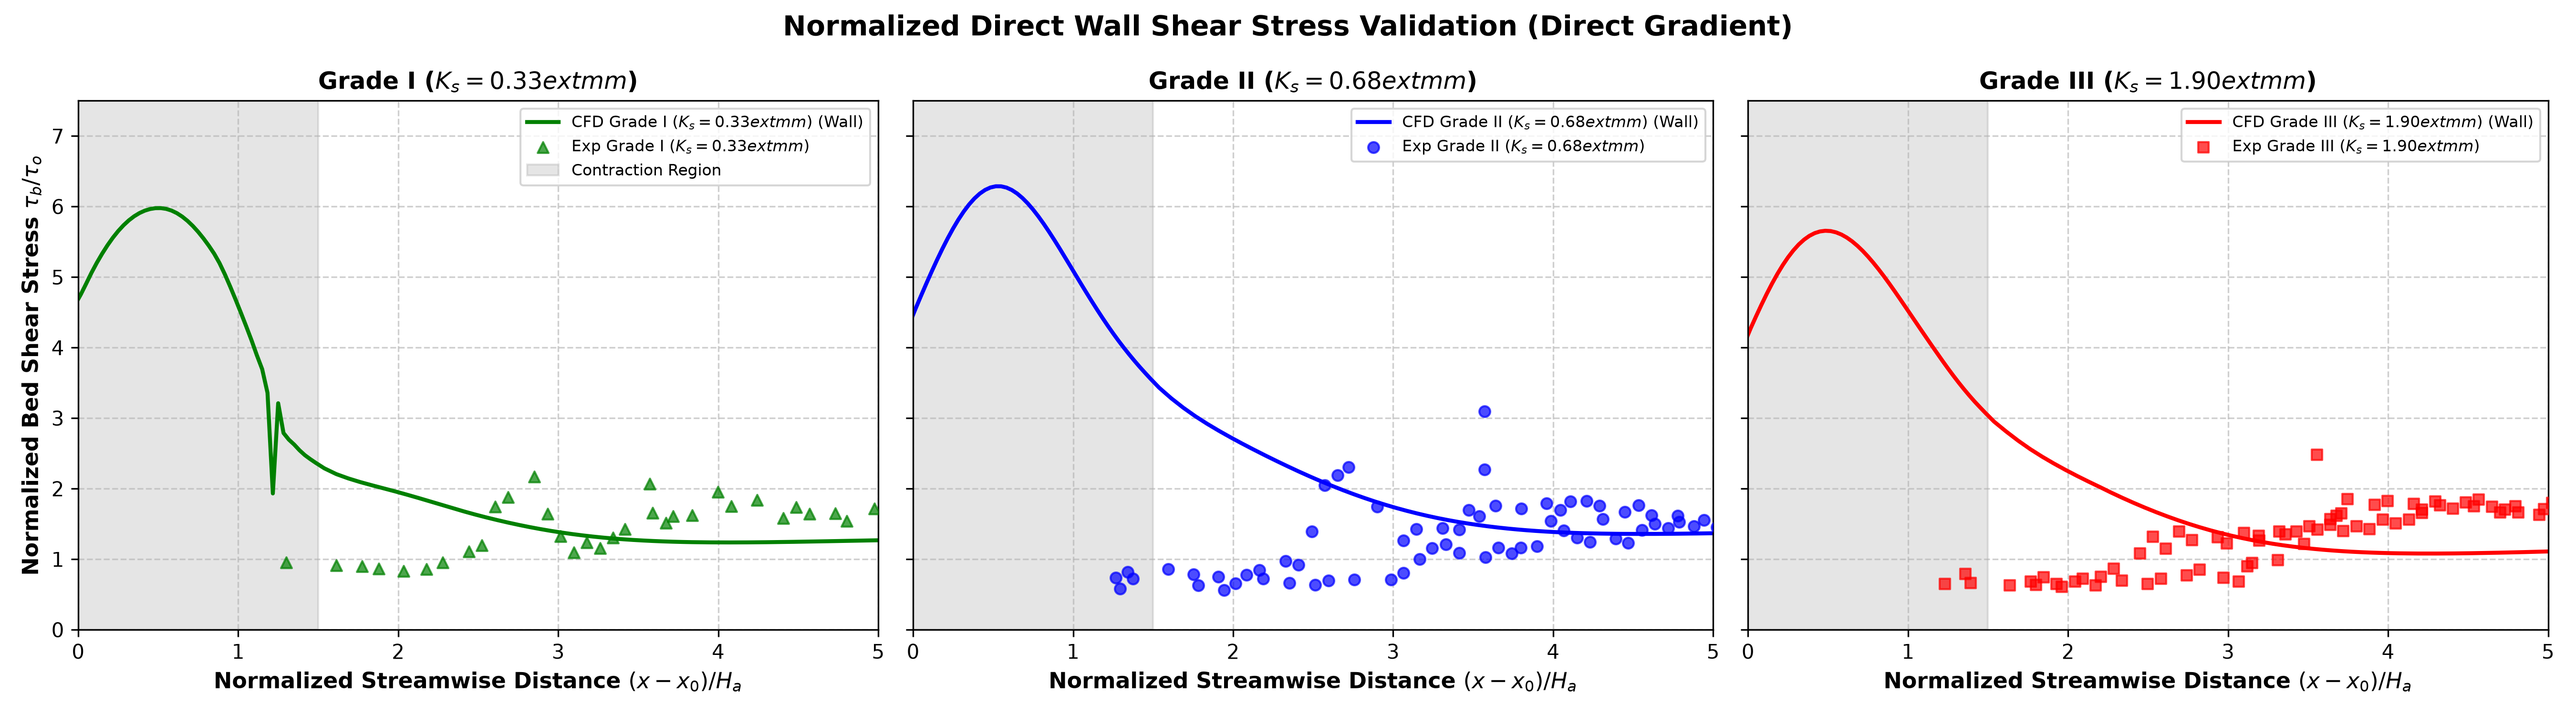
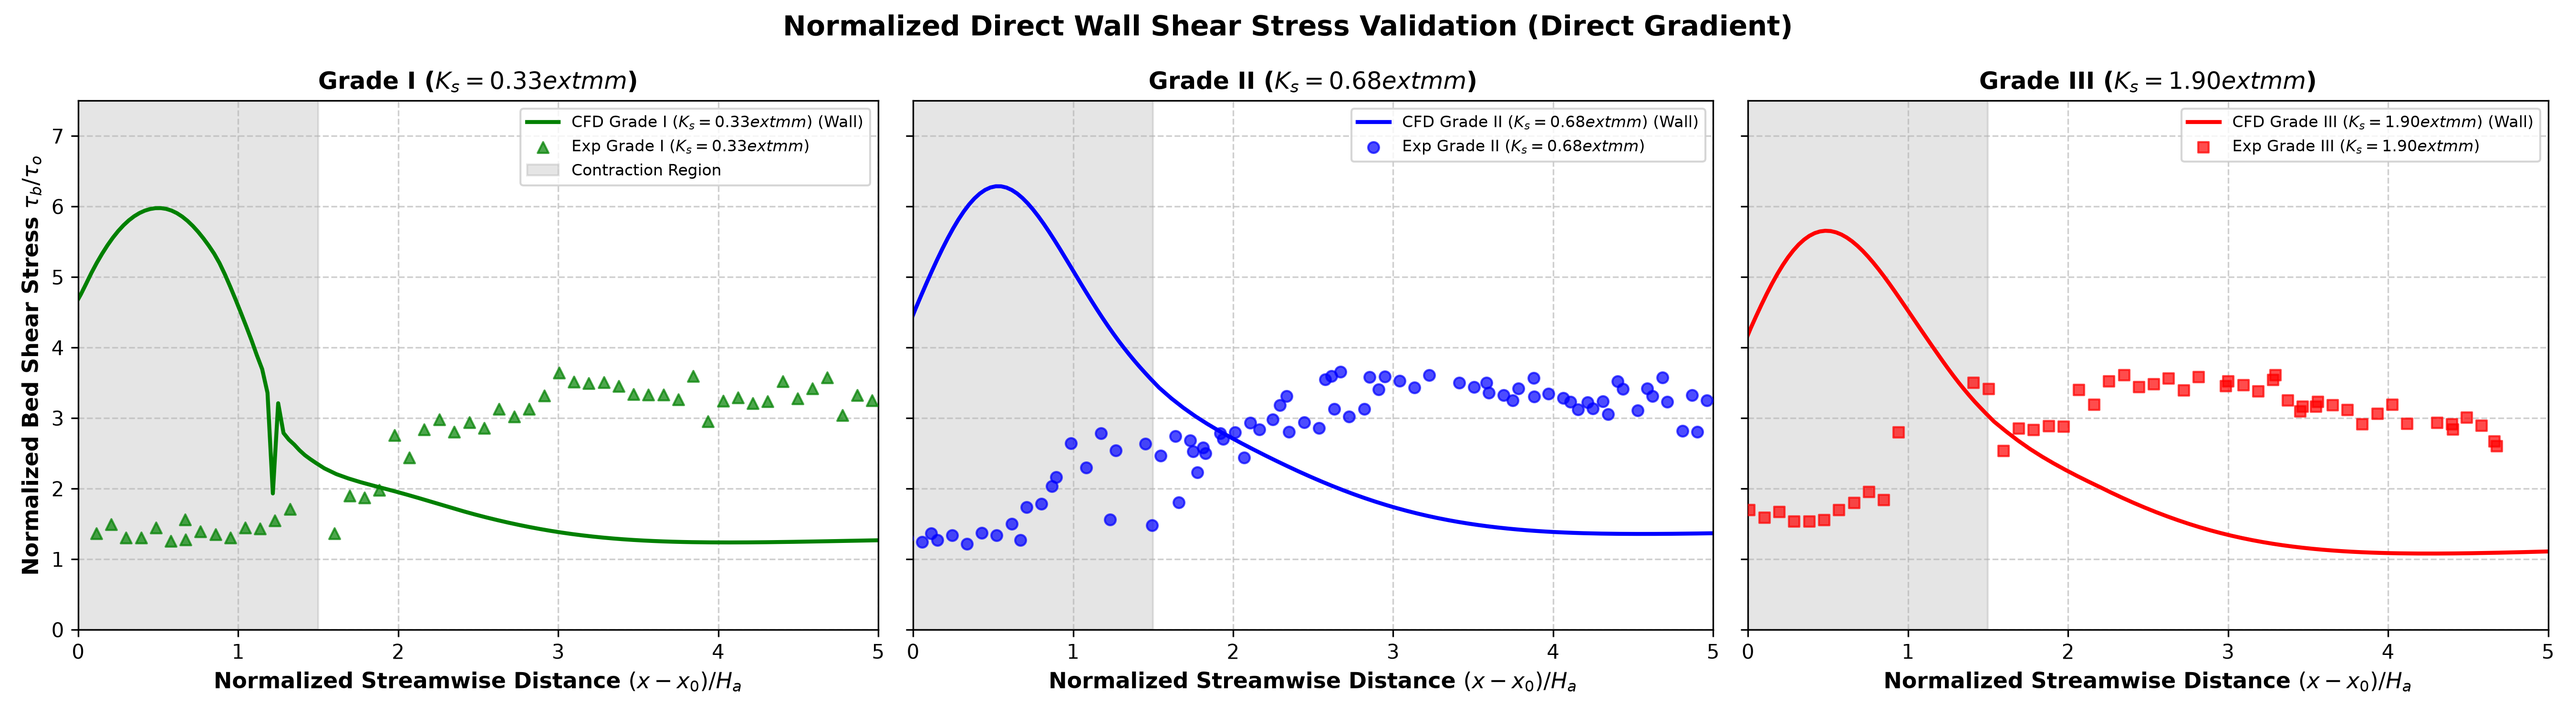
Correct PDF marker calibration, extract full domain including upstream points, and update validation curves

diff --git a/README.md b/README.md
@@ -167,7 +167,7 @@ reconstructPar
 ### 7.1 Experimental Data Extraction
 The experimental validation data (Fig. 9d from Majid et al., 2026) corresponding to the bridge dimensions ($L/H_a = 1.5, H/H_a = 0.25$) was extracted directly from the publication PDF. An automated Python workflow isolated the specific subplot, and the data markers representing the three roughness grades (Ks = 0.33, 0.68, and 1.90 mm) were digitized and converted into physical scale values for direct comparison.
 
-To facilitate downstream analysis and maintain a clean record, the extracted data points are compiled and saved in the repository as [validation_data.csv](./validation_data.csv). The dataset contains 138 entries with the following columns:
+To facilitate downstream analysis and maintain a clean record, the extracted data points are compiled and saved in the repository as [validation_data.csv](./validation_data.csv). The dataset contains 192 entries with the following columns:
 *   `grade`: The roughness grade classification (Grade I, II, or III).
 *   `roughness_mm`: Equivalent sand-grain roughness height $K_s$ in millimeters.
 *   `x_m`: Streamwise coordinate $x$ in meters.
